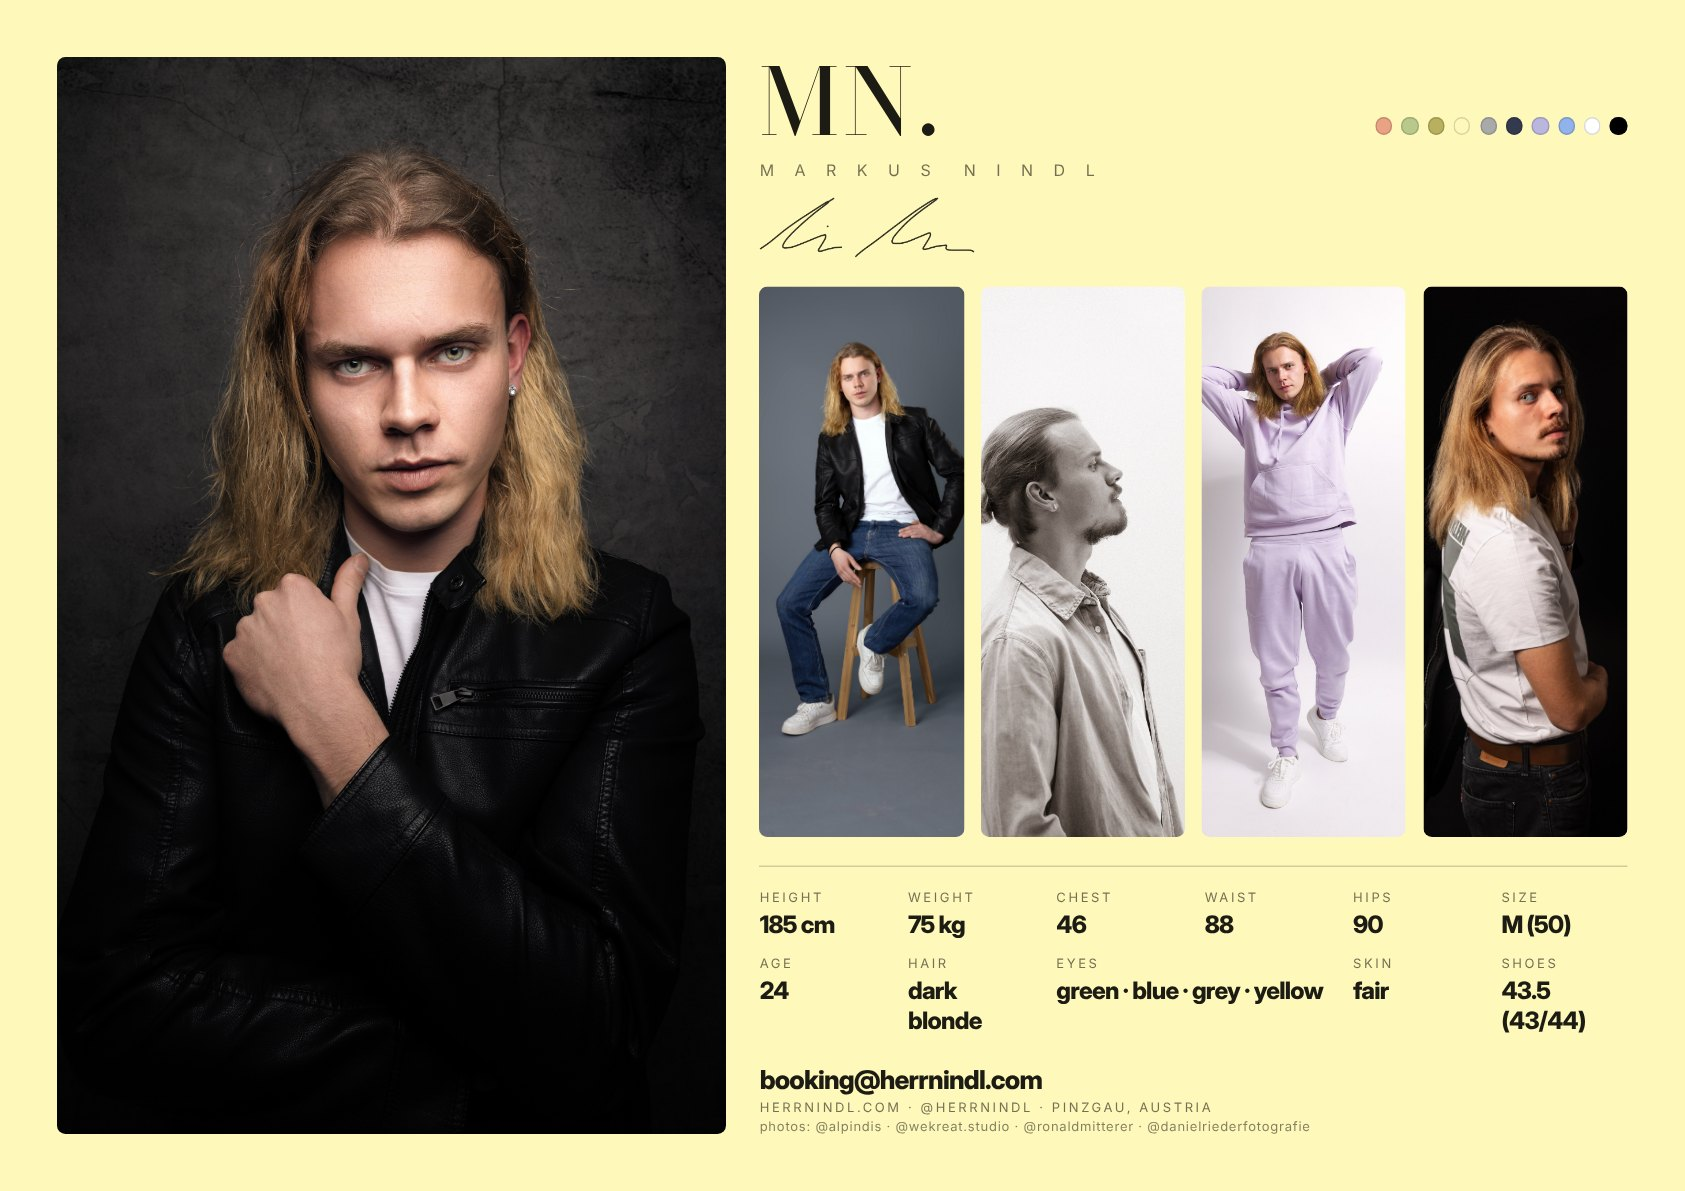
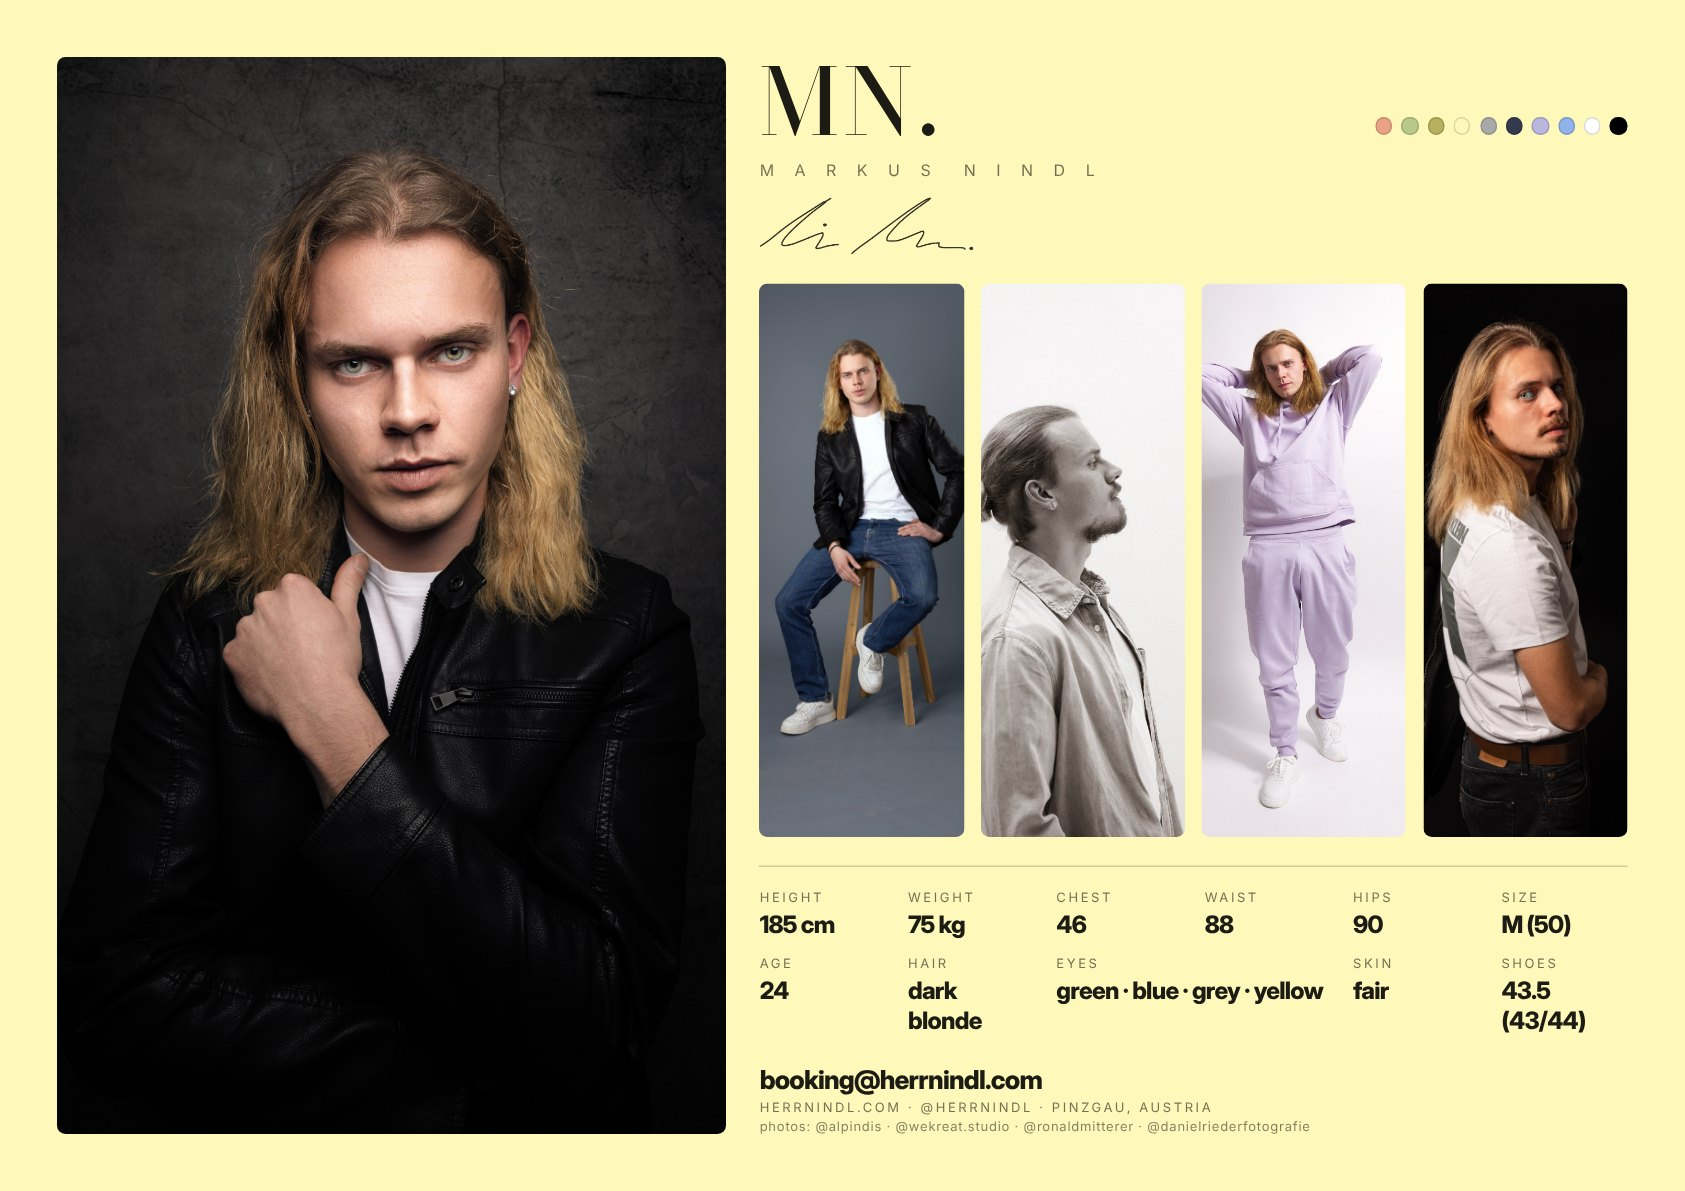
Signature: hand-drawn end dot, i-dot to match
Claude-Session: https://claude.ai/code/session_018ZRH16bFbXqbcio9iVcKmQ

diff --git a/index.html b/index.html
@@ -98,7 +98,7 @@ header { display: flex; align-items: baseline; justify-content: space-between; g
 .grid3 { display: grid; grid-template-columns: repeat(3, minmax(0, 1fr)); gap: 4px; margin-top: 18px; }
 .grid2 { display: grid; grid-template-columns: repeat(auto-fill, minmax(min(100%, 220px), 1fr)); gap: 12px; margin-top: 18px; }
 .set { position: relative; display: block; width: 100%; padding: 0; border: 0; overflow: hidden; background: var(--c, var(--line)); text-align: left; }
-.grid3 .set { aspect-ratio: 1515 / 429; }
+.grid3 .set { aspect-ratio: 1577 / 429; }
 .grid2 .set { aspect-ratio: 4 / 5; border-radius: 3px; }
 .set img { width: 100%; height: 100%; object-fit: cover; display: block; transition: transform .5s ease; }
 .set:hover img { transform: scale(1.02); }
@@ -411,16 +411,17 @@ body:has(.minibar:not([hidden])) { padding-bottom: calc(150px + env(safe-area-in
 .sig { display: block; width: clamp(150px, 34vw, 240px); aspect-ratio: 1706 / 467; }
 .sig svg { display: block; width: 100%; height: 100%; overflow: visible; }
 /* written like a pen: each stroke draws along its own path, then the i gets its dot */
-.sig path { stroke-dasharray: 1; stroke-dashoffset: 1; animation: sigPen var(--d) var(--w) cubic-bezier(.55,.05,.45,.95) forwards; }
+.sig path[pathLength] { stroke-dasharray: 1; stroke-dashoffset: 1; animation: sigPen var(--d) var(--w) cubic-bezier(.55,.05,.45,.95) forwards; }
 .sig .s1 { --w: .4s; --d: 1.15s; }
 .sig .s3 { --w: 1.85s; --d: 1.2s; }
-.sig circle { transform-box: fill-box; transform-origin: center; transform: scale(0); animation: sigDot .18s 1.6s ease-out forwards; }
+.sig .dot { transform-box: fill-box; transform-origin: center; transform: scale(0); animation: sigDot .2s 1.6s ease-out forwards; }
+.sig .d2 { animation-delay: 3.1s; }
 @keyframes sigPen { to { stroke-dashoffset: 0; } }
 @keyframes sigDot { 60% { transform: scale(1.4); } to { transform: scale(1); } }
 .player .sig { margin-top: 8px; }
 .sig-about { width: 200px; margin-top: 4px; }
 @media (min-width: 900px) { .about.panel > .sig-about { grid-column: 1; } }
-@media (prefers-reduced-motion: reduce) { .sig path, .sig circle { animation: none; stroke-dashoffset: 0; transform: none; } }
+@media (prefers-reduced-motion: reduce) { .sig path { animation: none; stroke-dashoffset: 0; transform: none; } }
 </style>
 </head>
 <body>
@@ -761,7 +762,7 @@ function loadImg(img) {
   delete img.dataset.src; delete img.dataset.srcset;
 }
 const lazyIO = "IntersectionObserver" in window ? new IntersectionObserver(es => es.forEach(x => { if (x.isIntersecting) { loadImg(x.target); lazyIO.unobserve(x.target); } }), { rootMargin: "900px 0px" }) : null;
-const SIG = "<svg viewBox=\"0 0 1515 429\" fill=\"none\" stroke=\"currentColor\" stroke-width=\"10\" stroke-linecap=\"round\" stroke-linejoin=\"round\" aria-hidden=\"true\"><path class=\"s1\" pathLength=\"1\" d=\"M12.0 363.0C20.1 357.5 45.8 340.8 60.6 330.1C75.4 319.5 81.4 314.7 100.8 299.2C120.2 283.7 148.4 259.0 176.9 237.3C205.5 215.6 228.2 198.6 272.1 169.1C316.0 139.7 406.0 82.6 440.2 60.8C474.4 39.1 468.5 43.0 477.2 38.5C485.8 34.0 484.2 37.9 492.0 33.8C499.8 29.7 524.1 14.0 524.0 14.1C523.8 14.2 498.4 29.1 491.1 34.5C483.8 39.9 496.4 33.8 480.4 46.7C464.3 59.6 420.4 91.4 394.7 111.8C369.0 132.2 344.9 153.0 326.0 169.1C307.1 185.3 297.8 193.6 281.6 208.6C265.4 223.7 243.9 243.9 228.7 259.4C213.6 274.9 200.3 289.9 190.9 301.7C181.5 313.5 176.2 323.7 172.4 330.2C168.6 336.7 169.0 337.8 168.2 340.8C167.4 343.8 167.5 346.3 167.6 348.2C167.7 350.1 168.2 351.2 169.0 352.4C169.7 353.7 170.7 354.9 171.8 355.8C173.0 356.7 174.1 357.4 175.9 357.9C177.6 358.4 176.9 358.9 182.2 358.8C187.5 358.6 198.2 358.5 207.6 357.1C216.9 355.8 228.7 353.2 238.2 350.6C247.8 348.0 251.6 346.5 264.7 341.7C277.7 336.8 290.6 331.9 316.5 321.6C342.4 311.2 398.4 288.1 420.1 279.7C441.8 271.2 439.5 272.9 446.5 270.8C453.5 268.7 459.0 267.6 462.2 267.2C465.4 266.7 464.8 267.4 465.7 268.2C466.7 268.9 467.6 269.7 468.0 271.8C468.4 273.9 468.3 278.1 468.0 280.8C467.7 283.5 468.3 283.0 466.2 287.8C464.1 292.6 463.0 296.5 455.3 309.8C447.5 323.1 425.9 357.0 419.5 367.8C413.2 378.6 417.1 372.9 417.0 374.8C416.9 376.7 417.1 378.4 418.8 379.4C420.5 380.4 423.2 380.9 427.3 380.8C431.3 380.7 433.3 381.1 443.3 378.6C453.3 376.1 473.3 369.4 487.3 365.9C501.3 362.3 515.6 359.4 527.3 357.3C538.9 355.3 548.8 354.5 557.3 353.8C565.8 353.0 574.8 353.0 578.3 352.8\"/><circle class=\"s2\" cx=\"481.0\" cy=\"208.4\" r=\"6.5\" fill=\"currentColor\" stroke=\"none\"/><path class=\"s3\" pathLength=\"1\" d=\"M679.3 417.0C681.4 414.9 682.9 412.2 692.3 404.4C701.6 396.5 713.1 386.5 735.3 369.9C757.4 353.3 790.8 330.6 825.3 304.9C859.8 279.3 899.9 247.7 942.3 216.0C984.6 184.3 1045.1 139.4 1079.3 114.8C1113.4 90.3 1126.4 82.3 1147.3 68.6C1168.1 55.0 1189.9 41.4 1204.3 33.0C1218.6 24.6 1226.4 20.8 1233.3 18.0C1240.1 15.2 1242.2 16.9 1245.3 16.1C1248.3 15.3 1251.4 13.2 1251.4 13.3C1251.5 13.4 1247.7 14.5 1245.5 16.6C1243.3 18.7 1254.8 13.2 1238.3 25.8C1221.7 38.4 1169.9 74.7 1146.3 92.1C1122.6 109.5 1115.6 114.4 1096.3 130.2C1076.9 146.0 1049.9 168.4 1030.3 187.0C1010.6 205.6 991.9 226.8 978.2 242.0C964.5 257.2 954.4 269.8 948.0 278.0C941.6 286.2 942.2 286.8 940.0 291.0C937.8 295.2 936.0 299.2 934.9 303.0C933.8 306.8 933.2 311.0 933.3 314.0C933.3 317.0 934.1 319.1 935.3 320.9C936.4 322.7 938.1 323.9 940.3 324.7C942.4 325.6 940.3 325.8 948.3 326.0C956.3 326.2 976.3 326.8 988.3 326.0C1000.3 325.2 1012.3 322.5 1020.3 320.9C1028.3 319.3 1027.4 319.4 1036.3 316.4C1045.1 313.3 1050.1 312.2 1073.3 302.8C1096.4 293.5 1155.6 268.2 1175.3 260.3C1194.9 252.3 1187.6 256.1 1191.3 255.1C1194.9 254.1 1195.7 254.3 1197.3 254.5C1198.8 254.6 1199.5 255.0 1200.4 255.9C1201.2 256.8 1201.9 258.0 1202.2 260.0C1202.4 262.0 1202.3 265.5 1202.0 268.0C1201.7 270.5 1202.3 270.2 1200.2 275.0C1198.1 279.8 1197.0 283.7 1189.3 297.0C1181.5 310.3 1159.9 344.0 1153.5 355.0C1147.2 366.0 1151.2 361.2 1151.0 363.0C1150.8 364.8 1151.6 365.3 1152.2 366.1C1152.7 366.8 1152.8 367.1 1154.4 367.5C1155.9 367.8 1157.4 368.3 1161.3 368.0C1165.1 367.7 1167.3 368.3 1177.3 365.8C1187.3 363.3 1207.3 356.6 1221.3 353.1C1235.3 349.5 1246.6 346.7 1261.3 344.5C1275.9 342.4 1300.6 340.5 1309.3 340.0C1317.9 339.5 1312.4 340.7 1313.4 341.4C1314.3 342.0 1315.1 341.5 1314.8 344.1C1314.6 346.7 1312.2 353.8 1311.8 357.0C1311.4 360.2 1311.6 361.2 1312.4 363.0C1313.1 364.8 1314.7 366.5 1316.4 367.7C1318.0 368.9 1315.6 369.1 1322.3 370.2C1328.9 371.2 1333.1 373.4 1356.3 374.0C1379.4 374.6 1440.8 373.8 1461.3 374.0C1481.8 374.2 1473.8 374.3 1479.3 375.0C1484.8 375.7 1490.8 376.9 1494.3 377.9C1497.7 378.9 1498.5 380.0 1500.0 381.2C1501.5 382.4 1502.7 384.4 1503.3 385.0\"/></svg>";
+const SIG = "<svg viewBox=\"0 0 1577 429\" fill=\"none\" stroke=\"currentColor\" stroke-width=\"10\" stroke-linecap=\"round\" stroke-linejoin=\"round\" aria-hidden=\"true\"><path class=\"s1\" pathLength=\"1\" d=\"M12.0 363.0C20.1 357.5 45.8 340.8 60.6 330.1C75.4 319.5 81.4 314.7 100.8 299.2C120.2 283.7 148.4 259.0 176.9 237.3C205.5 215.6 228.2 198.6 272.1 169.1C316.0 139.7 406.0 82.6 440.2 60.8C474.4 39.1 468.5 43.0 477.2 38.5C485.8 34.0 484.2 37.9 492.0 33.8C499.8 29.7 524.1 14.0 524.0 14.1C523.8 14.2 498.4 29.1 491.1 34.5C483.8 39.9 496.4 33.8 480.4 46.7C464.3 59.6 420.4 91.4 394.7 111.8C369.0 132.2 344.9 153.0 326.0 169.1C307.1 185.3 297.8 193.6 281.6 208.6C265.4 223.7 243.9 243.9 228.7 259.4C213.6 274.9 200.3 289.9 190.9 301.7C181.5 313.5 176.2 323.7 172.4 330.2C168.6 336.7 169.0 337.8 168.2 340.8C167.4 343.8 167.5 346.3 167.6 348.2C167.7 350.1 168.2 351.2 169.0 352.4C169.7 353.7 170.7 354.9 171.8 355.8C173.0 356.7 174.1 357.4 175.9 357.9C177.6 358.4 176.9 358.9 182.2 358.8C187.5 358.6 198.2 358.5 207.6 357.1C216.9 355.8 228.7 353.2 238.2 350.6C247.8 348.0 251.6 346.5 264.7 341.7C277.7 336.8 290.6 331.9 316.5 321.6C342.4 311.2 398.4 288.1 420.1 279.7C441.8 271.2 439.5 272.9 446.5 270.8C453.5 268.7 459.0 267.6 462.2 267.2C465.4 266.7 464.8 267.4 465.7 268.2C466.7 268.9 467.6 269.7 468.0 271.8C468.4 273.9 468.3 278.1 468.0 280.8C467.7 283.5 468.3 283.0 466.2 287.8C464.1 292.6 463.0 296.5 455.3 309.8C447.5 323.1 425.9 357.0 419.5 367.8C413.2 378.6 417.1 372.9 417.0 374.8C416.9 376.7 417.1 378.4 418.8 379.4C420.5 380.4 423.2 380.9 427.3 380.8C431.3 380.7 433.3 381.1 443.3 378.6C453.3 376.1 473.3 369.4 487.3 365.9C501.3 362.3 515.6 359.4 527.3 357.3C538.9 355.3 548.8 354.5 557.3 353.8C565.8 353.0 574.8 353.0 578.3 352.8\"/><path class=\"dot d1\" fill=\"currentColor\" stroke=\"none\" d=\"M494.7 208.4C494.6 210.7 493.5 213.3 491.9 215.0C490.3 216.7 487.6 217.9 485.0 218.7C482.4 219.5 478.9 220.7 476.5 220.0C474.1 219.3 472.3 216.6 470.8 214.6C469.2 212.7 467.5 210.6 467.2 208.4C467.0 206.2 467.5 202.9 469.2 201.2C470.8 199.5 474.3 198.8 477.0 198.2C479.7 197.6 482.7 196.8 485.3 197.4C487.8 197.9 490.8 199.7 492.3 201.5C493.9 203.4 494.7 206.1 494.7 208.4Z\"/><path class=\"s3\" pathLength=\"1\" d=\"M679.3 417.0C681.4 414.9 682.9 412.2 692.3 404.4C701.6 396.5 713.1 386.5 735.3 369.9C757.4 353.3 790.8 330.6 825.3 304.9C859.8 279.3 899.9 247.7 942.3 216.0C984.6 184.3 1045.1 139.4 1079.3 114.8C1113.4 90.3 1126.4 82.3 1147.3 68.6C1168.1 55.0 1189.9 41.4 1204.3 33.0C1218.6 24.6 1226.4 20.8 1233.3 18.0C1240.1 15.2 1242.2 16.9 1245.3 16.1C1248.3 15.3 1251.4 13.2 1251.4 13.3C1251.5 13.4 1247.7 14.5 1245.5 16.6C1243.3 18.7 1254.8 13.2 1238.3 25.8C1221.7 38.4 1169.9 74.7 1146.3 92.1C1122.6 109.5 1115.6 114.4 1096.3 130.2C1076.9 146.0 1049.9 168.4 1030.3 187.0C1010.6 205.6 991.9 226.8 978.2 242.0C964.5 257.2 954.4 269.8 948.0 278.0C941.6 286.2 942.2 286.8 940.0 291.0C937.8 295.2 936.0 299.2 934.9 303.0C933.8 306.8 933.2 311.0 933.3 314.0C933.3 317.0 934.1 319.1 935.3 320.9C936.4 322.7 938.1 323.9 940.3 324.7C942.4 325.6 940.3 325.8 948.3 326.0C956.3 326.2 976.3 326.8 988.3 326.0C1000.3 325.2 1012.3 322.5 1020.3 320.9C1028.3 319.3 1027.4 319.4 1036.3 316.4C1045.1 313.3 1050.1 312.2 1073.3 302.8C1096.4 293.5 1155.6 268.2 1175.3 260.3C1194.9 252.3 1187.6 256.1 1191.3 255.1C1194.9 254.1 1195.7 254.3 1197.3 254.5C1198.8 254.6 1199.5 255.0 1200.4 255.9C1201.2 256.8 1201.9 258.0 1202.2 260.0C1202.4 262.0 1202.3 265.5 1202.0 268.0C1201.7 270.5 1202.3 270.2 1200.2 275.0C1198.1 279.8 1197.0 283.7 1189.3 297.0C1181.5 310.3 1159.9 344.0 1153.5 355.0C1147.2 366.0 1151.2 361.2 1151.0 363.0C1150.8 364.8 1151.6 365.3 1152.2 366.1C1152.7 366.8 1152.8 367.1 1154.4 367.5C1155.9 367.8 1157.4 368.3 1161.3 368.0C1165.1 367.7 1167.3 368.3 1177.3 365.8C1187.3 363.3 1207.3 356.6 1221.3 353.1C1235.3 349.5 1246.6 346.7 1261.3 344.5C1275.9 342.4 1300.6 340.5 1309.3 340.0C1317.9 339.5 1312.4 340.7 1313.4 341.4C1314.3 342.0 1315.1 341.5 1314.8 344.1C1314.6 346.7 1312.2 353.8 1311.8 357.0C1311.4 360.2 1311.6 361.2 1312.4 363.0C1313.1 364.8 1314.7 366.5 1316.4 367.7C1318.0 368.9 1315.6 369.1 1322.3 370.2C1328.9 371.2 1333.1 373.4 1356.3 374.0C1379.4 374.6 1440.8 373.8 1461.3 374.0C1481.8 374.2 1473.8 374.3 1479.3 375.0C1484.8 375.7 1490.8 376.9 1494.3 377.9C1497.7 378.9 1498.5 380.0 1500.0 381.2C1501.5 382.4 1502.7 384.4 1503.3 385.0\"/><path class=\"dot d2\" fill=\"currentColor\" stroke=\"none\" d=\"M1563.3 380.0C1563.3 382.3 1562.4 385.1 1560.9 387.0C1559.3 388.9 1556.4 390.7 1553.7 391.5C1551.1 392.2 1547.4 392.5 1544.8 391.7C1542.1 391.0 1539.4 389.0 1537.7 387.0C1536.1 385.1 1534.4 382.2 1534.6 380.0C1534.8 377.8 1537.3 375.6 1539.0 373.7C1540.8 371.9 1542.6 370.0 1545.1 369.1C1547.5 368.2 1551.2 367.6 1553.9 368.3C1556.5 368.9 1559.1 371.1 1560.7 373.1C1562.3 375.0 1563.3 377.7 1563.3 380.0Z\"/></svg>";
 const fillSig = e => { e.innerHTML = SIG; return e; };
 document.querySelectorAll(".sig").forEach(fillSig);
 function el(tag, cls, text) { const e = document.createElement(tag); if (cls) e.className = cls; if (text != null) e.textContent = text; return e; }
